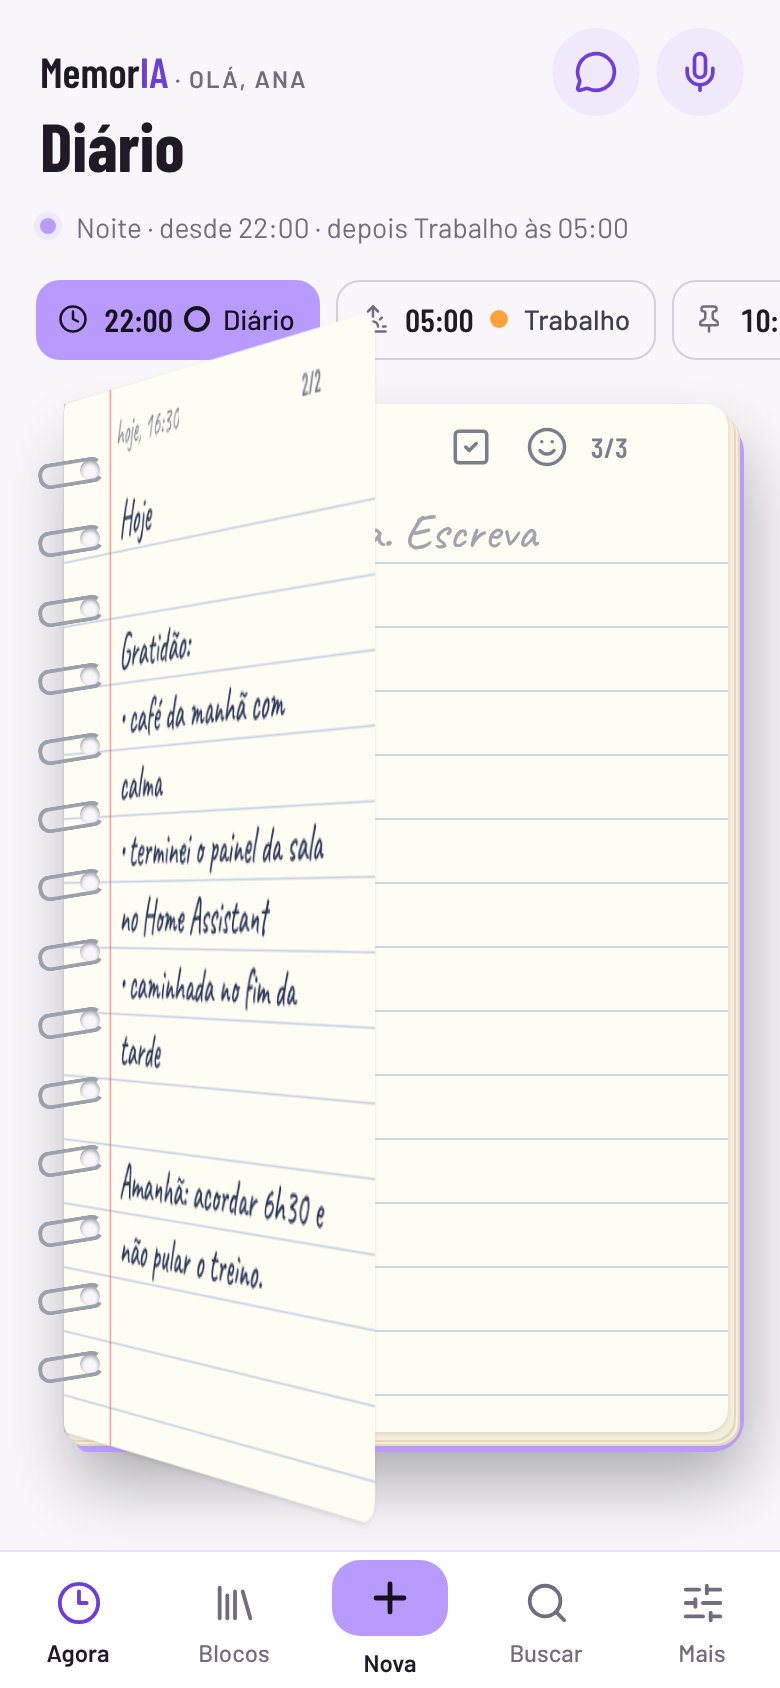
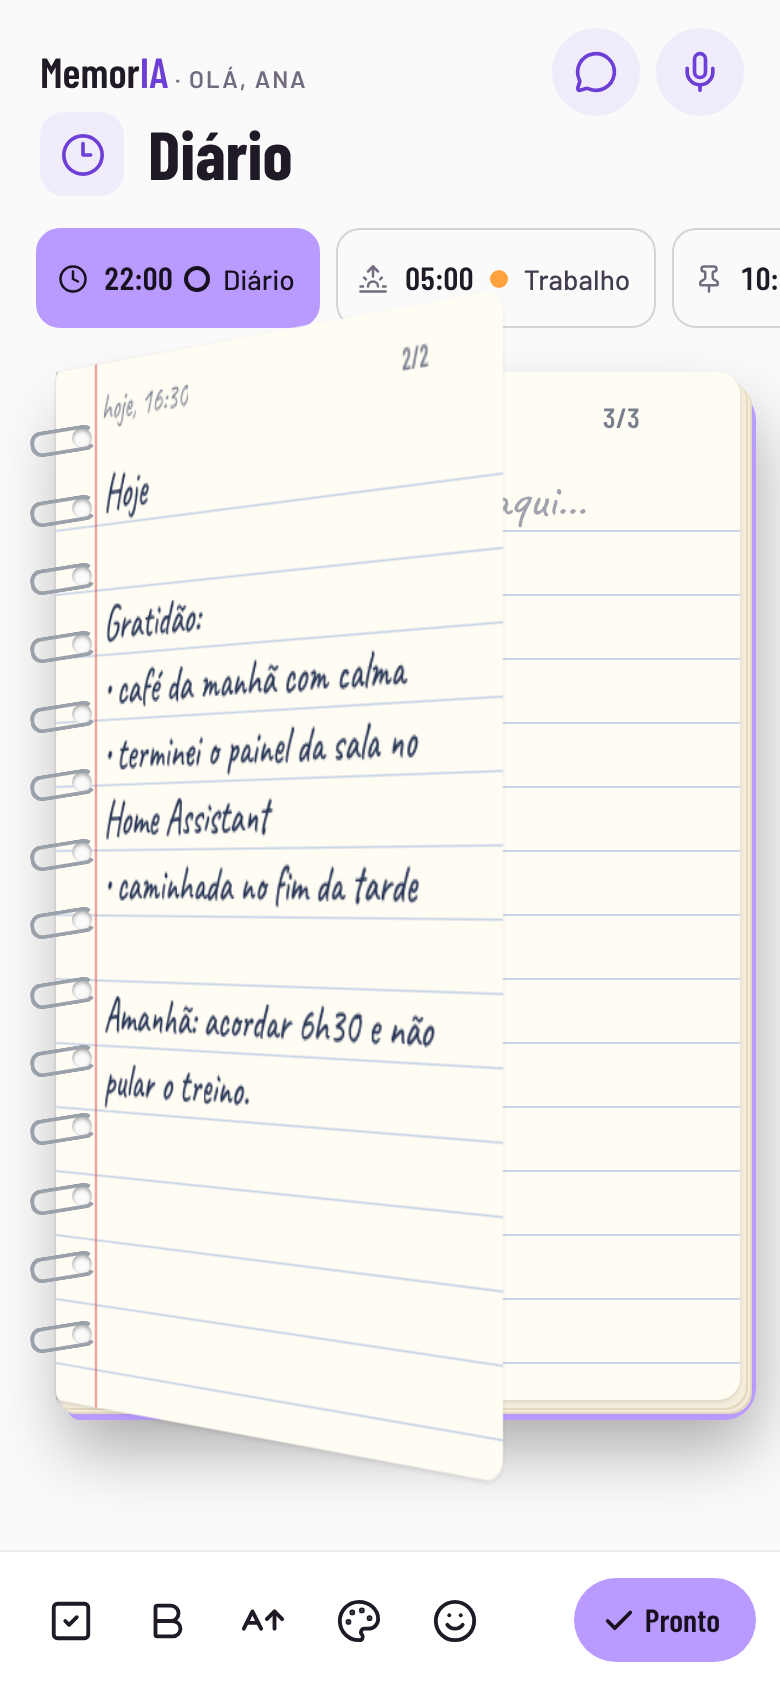
MemorIA: o README e as telas em dia (a formatação, a Memória da IA e as Rondas)
O tools/prints_readme.py vai para Blocos pelo _goTab (a folha nova esconde a barra de baixo).

Claude-Session: https://claude.ai/code/session_017hEteHByHThDBu4uLqG9Xn

diff --git a/tools/prints_readme.py b/tools/prints_readme.py
@@ -63,7 +63,7 @@ def main():
         pg.wait_for_timeout(120)
         shot("virar.png")
         pg.wait_for_timeout(900)
-        a.locator("nav .tab", has_text="Blocos").click()
+        a.evaluate("(el) => el._goTab('/blocos')")  # a folha nova abre a escrita, que esconde a barra de baixo
         pg.wait_for_timeout(700)
         shot("blocos.png")
         b.close()

diff --git a/README.md b/README.md
@@ -40,13 +40,14 @@ A primeira instalação leva alguns minutos, porque o app é montado no próprio
 - **Relatório de anotações**, com os blocos e as folhas e **Baixar PDF** (funciona no app do Home Assistant no celular).
 - **No ⋯ da folha**: horário próprio, mover para outro bloco, adicionar link, copiar o texto ou arrancar a folha, com Desfazer.
 - **Caixas de marcar**: no alto da folha, transforme linhas em itens com caixa para marcar como feito com um toque; escrevendo, **Pronto** sai da escrita num toque.
+- **Negrito, letra maior, cores e emojis** na barra de escrever; o Relatório em PDF leva os emojis.
 - **Links que abrem com um toque**: endereços na folha viram etiquetas curtas (o nome, ou o site), sem aquele texto comprido.
 - **Nova folha de mensagem ou foto**: cole uma mensagem do WhatsApp, escolha fotos ou digitalize uma anotação em papel; a IA configurada no Home Assistant (Claude, OpenAI, Gemini ou Ollama) transcreve e você revisa. Escolha qual em **Mais → Configurações → Integrações**.
-- **Falar e Conversar com a IA**, no alto das telas: diga uma anotação (a fala para texto do Home Assistant transcreve e a IA organiza) ou converse sobre os blocos; o que a IA propõe escrever só acontece depois do seu toque.
+- **Falar e Conversar com a IA**, no alto das telas: diga uma anotação (a fala para texto do Home Assistant transcreve e a IA organiza) ou converse sobre os blocos; o que a IA propõe escrever só acontece depois do seu toque. A **Memória da IA** é uma só, da casa, compartilhada por todos os apps da família.
 - **Buscar** em todas as folhas, sem se importar com acentos, com os blocos já na tela: **Selecionar** vários para mudar a categoria e de quem é de uma vez.
 - **Sensor** `sensor.memoria_agora` com o bloco e a folha do momento, para painéis e automações.
 - **No CronologIA**: o trecho de agora e os dois próximos aparecem no Agora do CronologIA (ligue lá, em Integrações).
-- **CorrerIA**: com o app CorrerIA, o WhatsApp, o Claude e o Gemini leem e mudam os blocos (buscar, ler, criar e editar folhas, links, blocos e categorias). Ligue em **Mais → Configurações → Integrações**.
+- **CorrerIA**: com o app CorrerIA, o WhatsApp, o Claude e o Gemini leem e mudam os blocos (buscar, ler, criar e editar folhas, links, blocos e categorias), e a **Ronda das anotações** de lá passa pelos blocos parados. Ligue em **Mais → Configurações → Integrações**.
 - **Salvo no Home Assistant**: sincroniza na hora entre aparelhos e entra no backup.
 - **Dados**: exportar (ZIP com um arquivo de texto por bloco, CSV e JSON), backup na pasta `share/memoria`, importar, versões anteriores automáticas e começar do zero.
 - **Mais** em menu, como nos outros apps: **Categorias**, **Relatório de anotações**, **Configurações** em abas (Integrações, Dados, Aparência e Opções) e **Sobre**. Embaixo, **Agora**, **Buscar**, **Adicionar**, **Blocos** e **Mais**; arrastar o dedo para os lados troca de aba.
